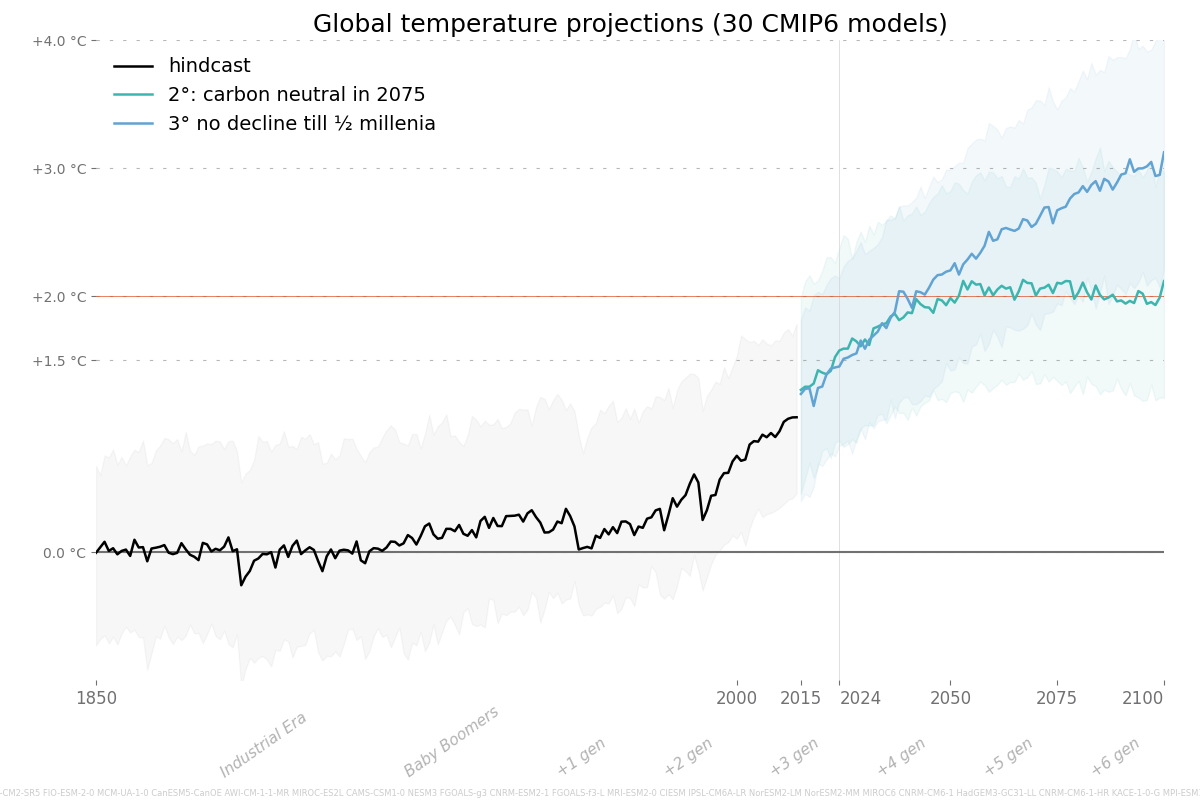
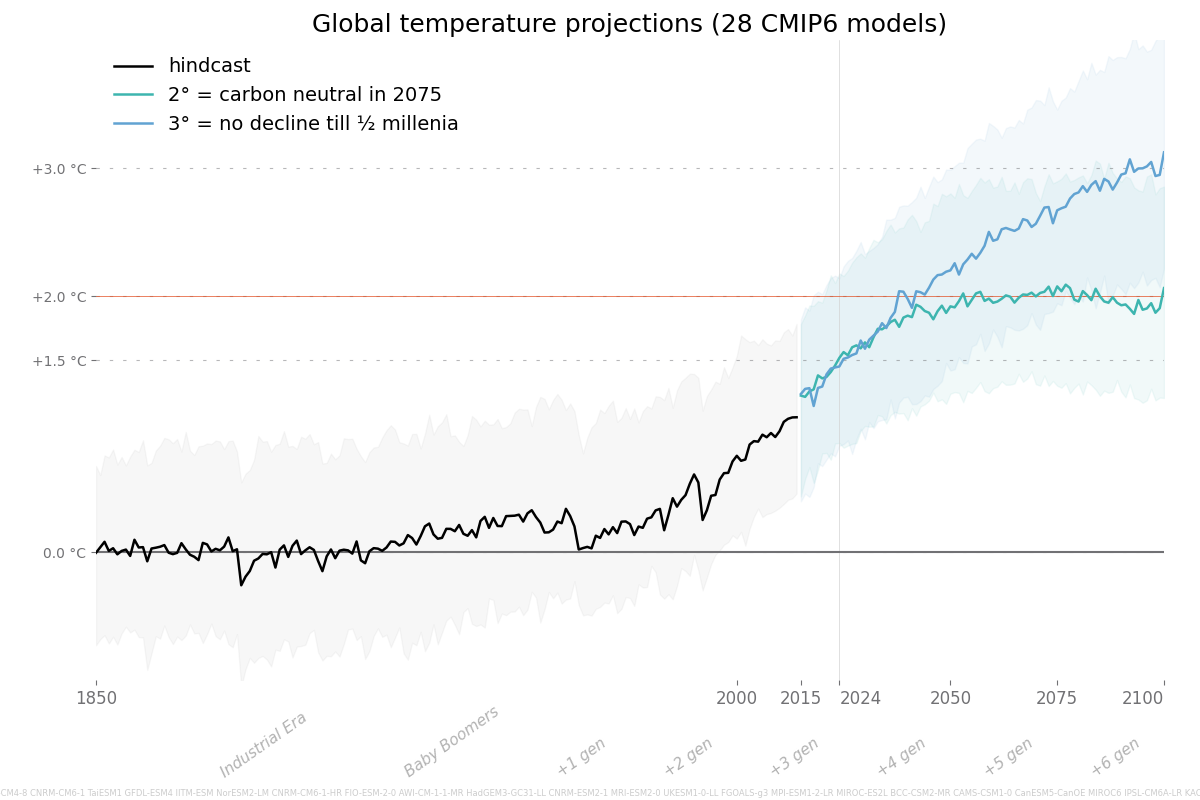
intersection of experiments

diff --git a/ClimateProjections.py b/ClimateProjections.py
@@ -67,9 +67,10 @@ import traceback
 # UNCOMENT WHAT TO DOWNLOAD, COMPUTE AND VISUALIZE:
 
 def main():
+  GlobalTemperature()
   #maxTemperature()
-  tropicDaysBuckets()
-  #GlobalTemperature()
+  #tropicDaysBuckets()
+  
   #discovery()
 
 
@@ -80,27 +81,27 @@ experiments = scenarios['to-visualize'].keys()
 def GlobalTemperature():
   variable = 'temperature'; global DATADIR; DATADIR = DATADIR + variable + '/'
   
-  models = md[variable]
+  #models = md[variable]
   models = md["model_resolutions"].keys()
   unavailable_experiments = downloader.download(models, experiments, DATADIR, mark_failing_scenarios=mark_failing_scenarios, forecast_from=forecast_from)
   
   aggregate()
+  data = loadAggregated(models=models, experiments=experiments, unavailable_experiments=unavailable_experiments)
+  data = cleanUpData(data)
   
-  data_ds_filtered = cleanUpData(loadAggregated(models))
-  
-  data_ds_filtered = filter_to_models_with_most_experiments(data_ds_filtered, unavailable_experiments)
-  #data_ds_filtered = filter_to_models_with_all_experiments(data_ds_filtered, unavailable_experiments)
-  
-  data_50, data_90, data_10 = averageModels('tas', data_ds_filtered, unavailable_experiments)
+  data = models_with_all_experiments(data, drop_experiments=['ssp119'])
+  #data = models_with_all_experiments(data)
+  data = data['tas']
+  quantile_ranges = quantiles(data, (.1, .5, .9))
 
   chart = visualizations.Charter(variable=variable, 
-    title=f'Global temperature projections ({len(set(data_ds_filtered.model.values.flat))} CMIP6 models)', )
+    title=f'Global temperature projections ({len(set(data.model.values.flat))} CMIP6 models)', )
   chart.plot(
-    data_ds_filtered, limits={'top': data_90, 'mean': data_50, 'bottom': data_10}, 
-    zero=preindustrial_temp(data_50), 
+    data, ranges=quantile_ranges, 
+    zero=preindustrial_temp(quantile_ranges[1]), 
     reference_lines=[0, 2], labels=scenarios['to-visualize']) #ylabel='Temperature difference from 1850-1900'
   #chart.plot(what={'experiment': "ssp126"})
-  return data_ds_filtered
+  return data
 
 # monthly: 'monthly_maximum_near_surface_air_temperature', 'tasmax', 'frequency': 'monthly'
 def maxTemperature():
@@ -117,17 +118,18 @@ def maxTemperature():
   
   aggregate()
   
-  data_ds_filtered = cleanUpData(loadAggregated(models))
-  data_50, data_90, data_10 = averageModels('tasmax', data_ds_filtered, unavailable_experiments)
+  data = cleanUpData(loadAggregated(models))
+  data = data['tasmax']
+  quantile_ranges = quantiles(data, (.1, .5, .9))
   maxes = {'Madrid': 35}
 
   chart = visualizations.Charter(variable=variable,
-    title=f'Maximal temperature (in Czechia) projections ({len(set(data_ds_filtered.model.values.flat))} CMIP6 models)', 
+    title=f'Maximal temperature (in Czechia) projections ({len(set(data.model.values.flat))} CMIP6 models)', 
     ylabel='Max Temperature (°C)')
   
   chart.plot(
-    data_ds_filtered, limits={'top': data_90, 'mean': data_50, 'bottom': data_10}, 
-    reference_lines=[preindustrial_temp(data_50)], labels=scenarios['to-visualize'])
+    data, ranges=quantile_ranges, 
+    reference_lines=[preindustrial_temp(quantile_ranges[1])], labels=scenarios['to-visualize'])
 
 def tropicDaysBuckets():
   variable = 'max_temperature'; global DATADIR; DATADIR = DATADIR + variable + '/'
@@ -145,9 +147,10 @@ def tropicDaysBuckets():
   
   data = cleanUpData(loadAggregated(models))
   model_count = len(set(data.model.values.flat))
-  #data = data.median(dim='model')
+  models = data.model.values.flat
+  data = data.median(dim='model').max(dim='experiment')      
 
-  chart = visualizations.Charter(variable=variable, 
+  chart = visualizations.Charter(variable=variable, models=models,
     title=f'Tropic days (in Czechia) projection ({model_count} CMIP6 models)', 
     subtitle="When no decline of emissions till 2050 (ssp245 scenario)", 
     ylabel='Tropic days annualy')
@@ -158,7 +161,9 @@ def tropicDaysBuckets():
 def discovery():
   variable = 'discovery'; global DATADIR; DATADIR = DATADIR + variable + '/'
   
-  models = md["model_resolutions"].keys(); #["GISS-E2-1-G", "CESM2-FV2", "E3SM-1-1", "E3SM-1-1-ECA", "AWI-ESM-1-1-LR", "MIROC-ES2H", "CMCC-ESM2", "KIOST-ESM", "CMCC-CM2-HR4", "IPSL-CM5A2-INCA", "EC-Earth3-CC", "EC-Earth3-Veg-LR", "EC-Earth3-AerChem"]
+  #models = md["model_resolutions"].keys()
+  #models = ["GISS-E2-1-G", "CESM2-FV2", "E3SM-1-1", "E3SM-1-1-ECA", "AWI-ESM-1-1-LR", "MIROC-ES2H", "CMCC-ESM2", "KIOST-ESM", "CMCC-CM2-HR4", "IPSL-CM5A2-INCA", "EC-Earth3-CC", "EC-Earth3-Veg-LR", "EC-Earth3-AerChem"]
+  models = []
   scenarios = ['ssp126']
   downloader.download(models, scenarios, DATADIR, mark_failing_scenarios=mark_failing_scenarios, forecast_from=forecast_from)
   aggregate()
@@ -175,14 +180,12 @@ def history():
 
 # COMPUTATION
 
-def averageModels(var, data_ds_filtered, unavailable_experiments):
-  # TEMPERATURES
-  data = data_ds_filtered[var]
-
-  data_90 = data.quantile(0.9, dim='model')
-  data_10 = data.quantile(0.1, dim='model')
-  data_50 = data.quantile(0.5, dim='model')
-  return data_50, data_90, data_10
+def quantiles(data, quantiles):
+  quantilized = []
+  for q in quantiles:
+    quantilized.append(data.quantile(q, dim='model'))
+  
+  return quantilized
 
 def create_buckets(da_agg):
   t30 = ((da_agg >= (30+K)) & (da_agg < (35+K))).resample(time='YE').sum(dim='time')
@@ -280,75 +283,87 @@ def aggregate(stacked=None):
 
     except Exception as e: print(f"Error in {filename}: {type(e).__name__}: {e}"); traceback.print_exc(limit=1)
 
-def loadAggregated(models):
+def loadAggregated(models=None, experiments=None, unavailable_experiments=None):
   print('Opening aggregations')
-  data_ds = xr.open_mfdataset(f'{DATADIR}cmip6_agg_*.nc', combine='nested', concat_dim='model')
-  #data_ds = xr.open_mfdataset(f'{DATADIR}cmip6_agg_*.nc')
+
+  
+  data_ds = xr.open_mfdataset(f'{DATADIR}cmip6_agg_*.nc', combine='nested', concat_dim='model') # when problems with loading # data_ds = xr.open_mfdataset(f'{DATADIR}cmip6_agg_*.nc')
   data_ds.load()
-  # combined_ds = xr.combine_by_coords([data_ds1, data_ds2])
-  #combined_ds.load()
+  return data_ds
+
+  files_to_load = f'{DATADIR}cmip6_agg_*.nc'
+
+  data_ds = None
+  try:
+    for i in glob(files_to_load):
+        filename = os.path.abspath(i) # os.path.basename(i)
+        print(filename)
+        new_ds = xr.open_dataset(filename)
+        if data_ds is None:
+            data_ds = new_ds
+        else:
+            #data_ds = xr.combine_by_coords([data_ds, new_ds])
+            #data_ds = xr.combine_nested([data_ds, new_ds], concat_dim=['experiment', 'model', 'bins', 'year'], combine_attrs='override')
+            data_ds = xr.combine_nested([data_ds, new_ds], concat_dim=['model'])
+
+  except Exception as e: 
+    print(f"Error in {filename}: {type(e).__name__}: {e}"); 
+    traceback.print_exc()
+    print(data_ds)
+    print(new_ds)
 
   not_read = set(models)-set(data_ds.model.values.flat)
   if not_read: print("\nNOT read: '" + ' '.join(map(str, not_read)) +"'")
 
+  #print(len(set(data_ds.sel(experiment='ssp126').model.values.flat)))
+  #print(sorted(set(data_ds.sel(experiment='ssp126').model.values.flat)))
+
   return data_ds
 
-def cleanUpData(data_ds):
+def cleanUpData(data):
   # removing historical data before 2014, because some models can include them despite request
   try:
     def filter_years(ds):
       if 'historical' in ds['experiment']:
         ds = ds.sel(year=ds['year'] < forecast_from)
       return ds
-    data_ds_filtered = data_ds.groupby('experiment').map(filter_years) #, squeeze=True
+    data = data.groupby('experiment').map(filter_years) #, squeeze=True
   
     # merging data series of different periods for the same model
-    # TODO if len(models) > len(unique_models)
-    data_ds_filtered = data_ds_filtered.groupby('model').mean('model')
-    return data_ds_filtered
+    #models = data.model.values
+    #if len(models) > len(set(models)):
+    data = data.groupby('model').mean('model')
+    return data
 
-  except Exception as e: print(f"Error in {filename}: {type(e).__name__}: {e}"); traceback.print_exc(limit=1)
+  except Exception as e: print(f"Error: {type(e).__name__}: {e}"); traceback.print_exc()  
 
-def filter_to_models_with_all_experiments(data, missing_models):
-  # TODO must be done from the dataset, not to risk data inconsistencies potentially introduced by unavailable_experiments
+def models_with_all_experiments(data, drop_experiments=None):
 
-  miss = set(missing_models['ssp119']) | se(missing_models['ssp126']) | set(missing_models['ssp245'])
+  if drop_experiments:
+    data = data.sel(experiment =~ data.experiment.isin(drop_experiments))
+
+  availability = []
+  for experiment in set(data.experiment.values.flat):
+    available = set(data.sel(experiment=experiment).dropna(dim='model', how='all').model.values)
+    availability.append(available)
+    #print(experiment)
+    #print(len(available), ' '.join(available))
+    print(f'\n{experiment}: {len(available)} models')
+    print(available)
+
+  keep = availability[0]
+  for a in availability[1:]:
+    keep &= a
+
+  keep = list(keep)
+  data = data.sel(model = data.model.isin(keep))
+  data = data.dropna(dim='model', how='all')
   
-  unavailable_models = [val for models in unavailable_experiments.values() for val in models]
-  return data.sel(model =~ data.model.isin(unavailable_models))
-  
+  remained = set(data.model.values.flat)
+  print(f"remained: {len(remained)} models")
+  print(remained)
 
-def filter_to_models_with_most_experiments(data, missing_models):
-  # TODO must be done from the dataset, not to risk data inconsistencies potentially introduced by unavailable_experiments
-  
-  # drop experiment that we know have the least of models
-  data_ds_filtered = data.sel(experiment =~ data.experiment.isin(['ssp119']))
-
-
-  avail1 = set(data_ds_filtered.sel(experiment='ssp126').dropna(dim='model', how='all').model.values)
-  print("126", len(avail1), avail1)
-  avail2 = set(data_ds_filtered.sel(experiment='ssp245').dropna(dim='model', how='all').model.values)
-  print("245", len(avail2), avail2)
-  keep = list(avail1 & avail2)
-  print("245", len(keep), keep)
-
-  intersection = data_ds_filtered.sel(model = data_ds_filtered.model.isin(keep))
-  intersection = intersection.dropna(dim='model', how='all')
-  remained = intersection.model.values
-  print("remained", len(remained), remained)
-  return intersection
-
-
-def WIP_filter_to_models_with_most_experiments(data):
-  # TODO must be done from the dataset, not to risk data inconsistencies potentially introduced by unavailable_experiments
-  
-  # drop experiment that we know have the least of models
-  data_ds_filtered = data.sel(experiment =~ data.experiment.isin(['ssp119']))
-  ssp126_models = data.sel(experiment =~ data.experiment.isin(['ssp126'])).model.values.flat
-  
-  # drop missing experiments in the other one
-  return data_ds_filtered.sel(model =~ data_ds_filtered.model.isin(ssp126_models))
-
+  return data
 
 
 def preindustrial_temp(data):

diff --git a/visualizations.py b/visualizations.py
@@ -12,8 +12,9 @@ import bisect
 import traceback
 
 class Charter:        
-  def __init__(self, variable=None, title=None, subtitle=None, ylabel=None, format='png', size=None):
+  def __init__(self, variable=None, models=None, title=None, subtitle=None, ylabel=None, format='png', size=None):
     self.variable = variable
+    self.models = models
     self.format = format
     self.size = size
 
@@ -42,9 +43,6 @@ class Charter:
   def stack(self, data, marker=None):
     ax = self.ax
     try:
-
-      self.models = set(data.model.values.flat)
-
       self._xaxis_climatic(ax, marker=marker)        
 
       years = data.year.values #years = data.coords['year'].values
@@ -53,19 +51,18 @@ class Charter:
       #tasmax_max = data.tasmax.max(dim='experiment').mean(dim='model')
       #plt.bar(years, tasmax_max.squeeze().values)
 
-      bucket_values = data.bucket.squeeze()  
+
+      data = data.bucket.squeeze()  
       bins = data.bins.values
       #bins = sorted(bins, reverse=True)
       bottom = np.zeros(len(years)) 
-      
-      bucket_sums = bucket_values.median(dim='model').max(dim='experiment')      
-      
+
       palette = self.palette['heat'] 
       palette = [palette[5], palette[8]]
 
       colors = plt.cm.hot(range(len(bins)))
       for i, bin_label in enumerate(bins):
-          bin_values = bucket_sums.sel(bins=bin_label).values
+          bin_values = data.sel(bins=bin_label).values
           ax.bar(years, bin_values, label=f'{bin_label} °C', bottom=bottom, color=palette[i], width=1)
           bottom += bin_values
 
@@ -76,7 +73,7 @@ class Charter:
     
     except Exception as e: print(f"\nError in Viz: {type(e).__name__}: {e}"); traceback.print_exc(limit=1)
 
-  def plot(self, data, limits=None, what='mean', zero=None, reference_lines=None, labels=None, marker=None):
+  def plot(self, data, ranges=None, what='mean', zero=None, reference_lines=None, labels=None, marker=None):
     ax = self.ax
     colors = self.palette['series']
     try:
@@ -111,10 +108,10 @@ class Charter:
         legend = [labels[s] for s in series] if labels else series
         for i in np.arange(len(series)):
           try:
-            ax.plot(data.year, limits['mean'][i,:], color=f'{colors[i%len(colors)]}', label=f'{legend[i]}', linewidth=1.8)
-            
             alpha=0.03 if legend[i] == 'hindcast' else 0.07
-            ax.fill_between(data.year, limits['top'][i,:], limits['bottom'][i,:], alpha=alpha, color=f'{colors[i]}')
+            for line in ranges[1:-1]:
+              ax.plot(data.year, line[i,:], color=f'{colors[i%len(colors)]}', label=f'{legend[i]}', linewidth=1.8)
+            ax.fill_between(data.year, ranges[0][i,:], ranges[-1][i,:], alpha=alpha, color=f'{colors[i]}')
           except Exception as e: print(f"Error in {legend[i]}: {type(e).__name__}: {e}"); traceback.print_exc(limit=1)
       else:
         years = data.coords['year'].values

diff --git a/README.md b/README.md
@@ -21,6 +21,8 @@ This is an exploration so far. There are models considered hot and outliers and 
 Models with TCR (Transient Climate Response) 1.4-2.2 are deemed more likely in AR6. 
 Averages by 50th quantile. Ranges by 10-90th quantile.
 
+[Hot models problem, Nature](https://www.nature.com/articles/d41586-022-01192-2.epdf)
+
 ## Maximal temperature (in Czechia) projections (CMIP6 models)
 ![Local temperature max projections (CMIP6 models)](charts/latest_max.png)
 Averages by 50th quantile. Ranges by 10-90th quantile.
